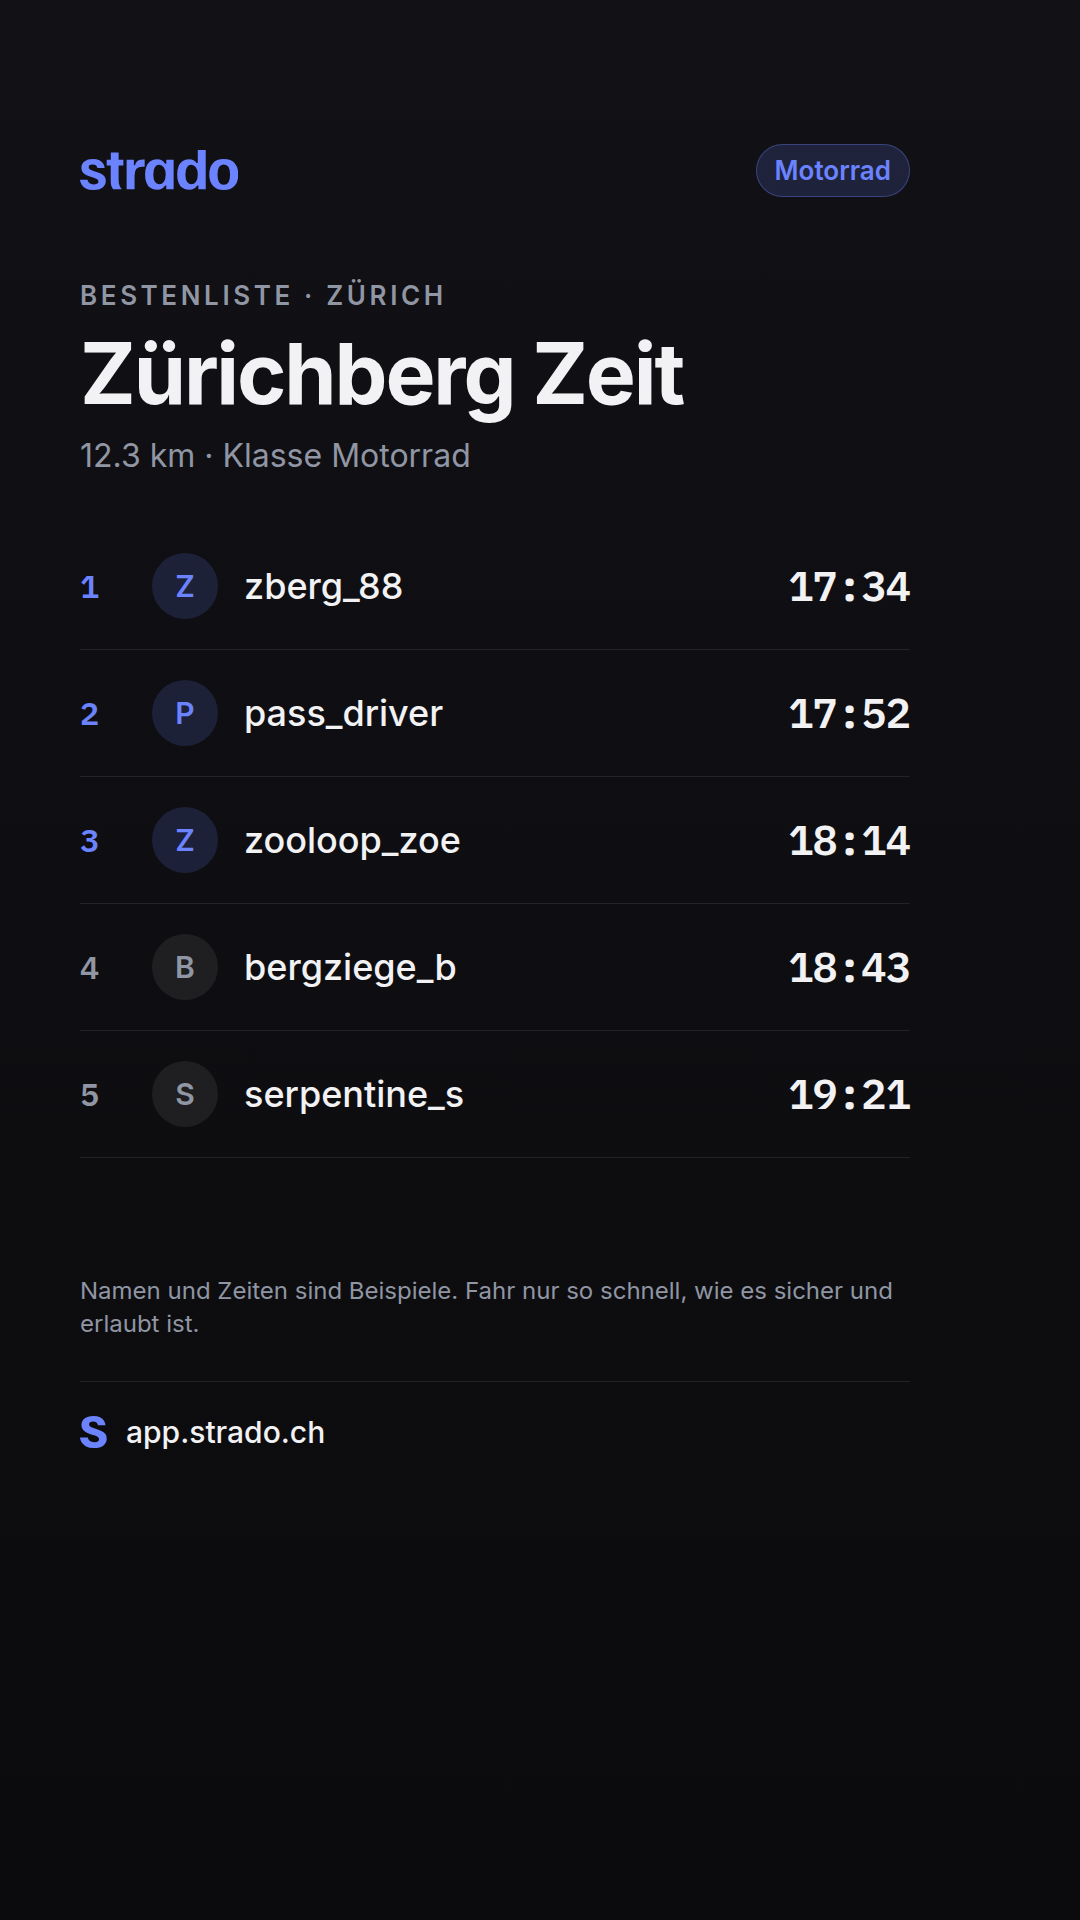
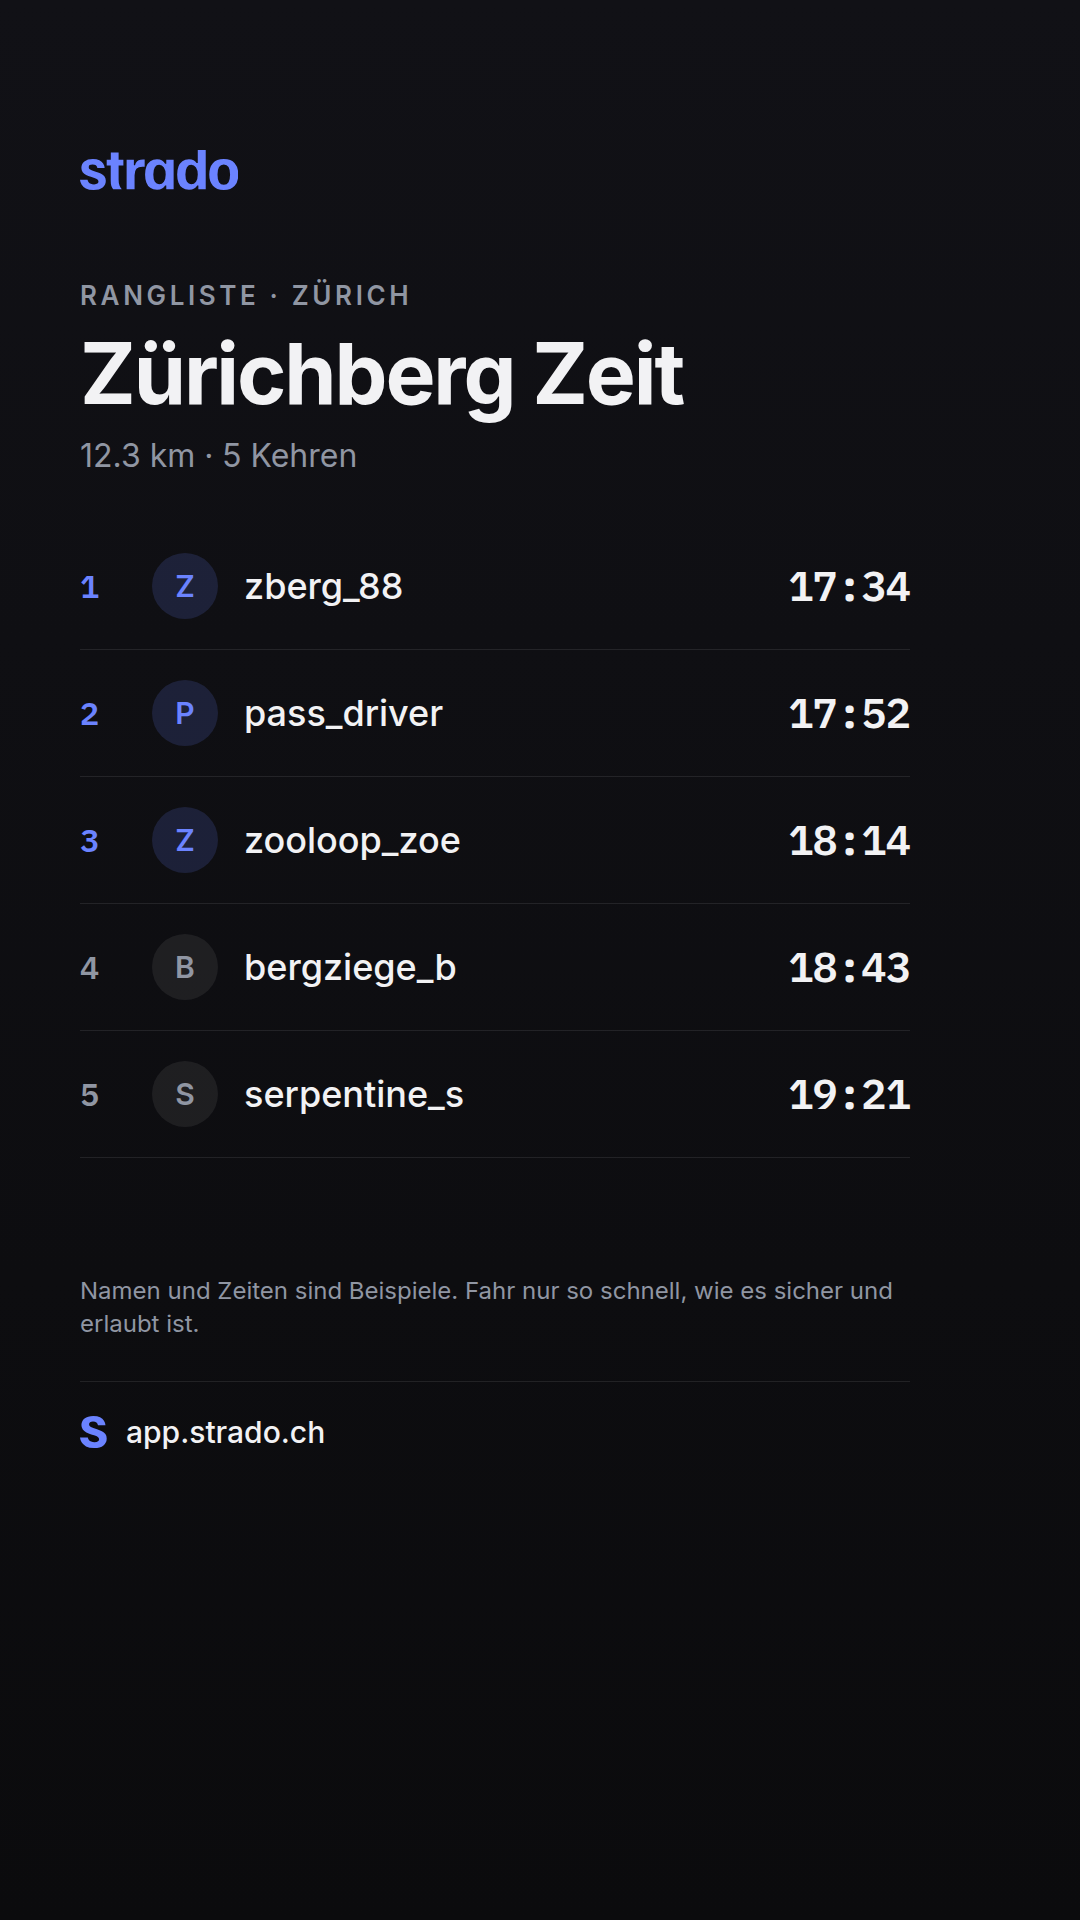
Rangliste hängt an der Strecke, nicht an einer Fahrzeugklasse
Sachfehler korrigiert. Die Slides und Captions behaupteten eine
Bestenliste pro Fahrzeugklasse — die gibt es nicht.
getRouteLeaderboard() in lib/leaderboard.ts filtert nach route_id und
sortiert nach dauer_sekunden, sonst nichts; "fahrzeugklasse" kommt in
lib/, components/ und app/ nirgends vor. Fahrzeuge gibt es (auto,
motorrad, am Eintrag der Fahrt), eine Rangliste je Klasse nicht.

Betroffen war nicht nur der Subheader von Slideshow 01, sondern neun
Stellen: die Ranglisten-Slides trugen eine Klassen-Pille und "Klasse
Motorrad" bzw. "Klasse Auto" in der Kopfzeile, die CTA versprach Zeiten
"neben denen, die dasselbe fahren", und drei Captions wiederholten es.
Alle korrigiert — die Slides zeigen jetzt "Rangliste · Zürich" und
Länge mit Kehren.

In captions.md stand die Fahrzeugklasse ausserdem im Argument dafür,
warum der Vergleich unbedenklich ist. Das Argument trägt auch ohne sie:
verglichen wird eine Strecke, die man legal fährt, und die gezeigten
Zeiten sagen das auch.

daten.mjs und README tragen den Grund jetzt im Text, damit die
Behauptung nicht zurückkommt.

Nicht angefasst: docs/marketing/instagram/captions.md, wo Post 05 als
ganzes Karussell auf derselben falschen Aussage steht ("Ein Töff gehört
nicht in dieselbe Liste wie ein Kombi"). Das lässt sich nicht per
Textkorrektur retten, der Post müsste neu gedacht werden — gemeldet,
nicht eigenmächtig umgeschrieben.

Geprüft: Renderer gelaufen, Hook- und Ranglisten-Slide gesichtet.
[…]

diff --git a/docs/marketing/tiktok/captions.md b/docs/marketing/tiktok/captions.md
@@ -69,9 +69,9 @@ Zwei Gründe, beide ernst:
    nicht eine Anzeige, sondern ein stiller Reichweitendeckel auf dem
    ganzen Konto — den du nicht siehst und nicht anfechten kannst.
 
-Was stattdessen trägt: der Vergleich ist **nach Fahrzeugklasse sortiert**
-und misst eine Strecke, die man legal fährt. Deshalb steht auf jeder
-Bestenlisten-Slide der Satz, der auch bei Instagram steht — „Fahr nur so
+Was stattdessen trägt: verglichen wird **eine Strecke, die man legal
+fährt**, und die gezeigten Zeiten sagen das auch. Deshalb steht auf jeder
+Ranglisten-Slide der Satz, der auch bei Instagram steht — „Fahr nur so
 schnell, wie es sicher und erlaubt ist." — und deshalb sind die
 Beispielzeiten so gewählt, wie `README.md` es beschreibt.
 
@@ -81,9 +81,9 @@ Beispielzeiten so gewählt, wie `README.md` es beschreibt.
 
 **Dateien:** `out/01-deine-zeit-01.png` … `-08.png` (8 Slides, in dieser Reihenfolge)
 
-Aufbau: Hook → fünf Strecken → Bestenliste → Schluss. Der Post ist auf den
+Aufbau: Hook → fünf Strecken → Rangliste → Schluss. Der Post ist auf den
 Vergleich gebaut: die Strecken-Slides zeigen, worum es geht, die
-Bestenlisten-Slide zeigt, wogegen.
+Ranglisten-Slide zeigt, wogegen.
 
 > Deine Zeit ist gut. Bis du sie vergleichst.
 >
@@ -91,9 +91,8 @@ Bestenlisten-Slide zeigt, wogegen.
 > Höhenmeter, maximale Steigung, Kehren. Nicht geschätzt, sondern aus den
 > Daten der Strecke gerechnet.
 >
-> Danach steht deine Zeit in der Bestenliste — sortiert nach Fahrzeugklasse.
-> Ein Töff gehört nicht in dieselbe Liste wie ein Kombi, sonst sagt der
-> Vergleich nur, wer das schnellere Fahrzeug hat.
+> Danach steht deine Zeit in der Rangliste der Strecke — neben allen anderen,
+> die dieselbe Strecke gefahren sind.
 >
 > Gratis im Browser: app.strado.ch
 >
@@ -139,7 +138,7 @@ Kommentar, und sag Bescheid, wenn eine davon wirklich reinkommt.
 
 **Dateien:** `out/03-kennt-nur-einer-01.png` … `-08.png`
 
-Aufbau: Hook → warum es Strado gibt → vier Strecken → Bestenliste → Schluss.
+Aufbau: Hook → warum es Strado gibt → vier Strecken → Rangliste → Schluss.
 Das ist der Post mit Geschichte; er läuft langsamer an und bleibt länger.
 
 > Die beste Strecke in Zürich kennt genau einer. Und der schickt sie dir nicht.
@@ -149,7 +148,7 @@ Das ist der Post mit Geschichte; er läuft langsamer an und bleibt länger.
 > fing mit derselben Frage an: wo fahren wir eigentlich hin?
 >
 > Deshalb gibt es Strado. Die Strecken an einem Ort, mit Verlauf und Karte,
-> und danach eine Bestenliste pro Fahrzeugklasse.
+> und danach eine Rangliste pro Strecke.
 >
 > Gestartet in Zürich. app.strado.ch
 >

diff --git a/docs/marketing/tiktok/README.md b/docs/marketing/tiktok/README.md
@@ -95,11 +95,17 @@ an einem echten Post, nicht hier.
 
 ## Zwei Regeln für den Inhalt
 
-**Erfundene Namen.** Die Fahrernamen und Zeiten der Bestenlisten-Slides sind
+**Erfundene Namen.** Die Fahrernamen und Zeiten der Ranglisten-Slides sind
 erfunden und bleiben es — genau wie bei Instagram und auf der Info-Seite.
 Echte Nutzernamen und echte Fahrten gehören niemandem, der ihrer
 Veröffentlichung auf einer Werbefläche zugestimmt hat (siehe
 `docs/rechtstexte/datenschutz.md`).
+
+**Die Rangliste hängt an der Strecke.** Nicht an einer Fahrzeugklasse:
+`getRouteLeaderboard()` in `lib/leaderboard.ts` filtert nach `route_id` und
+sortiert nach `dauer_sekunden`, sonst nichts. Fahrzeuge gibt es (Auto,
+Motorrad, am Eintrag der Fahrt), eine Rangliste je Klasse gibt es nicht. Wer
+sie in eine Caption schreibt, bewirbt ein Feature, das die App nicht hat.
 
 **Legale Beispielzeiten.** Jede gezeigte Zeit muss auf eine
 Durchschnittsgeschwindigkeit hinauslaufen, die man legal fährt. 17:34 auf
